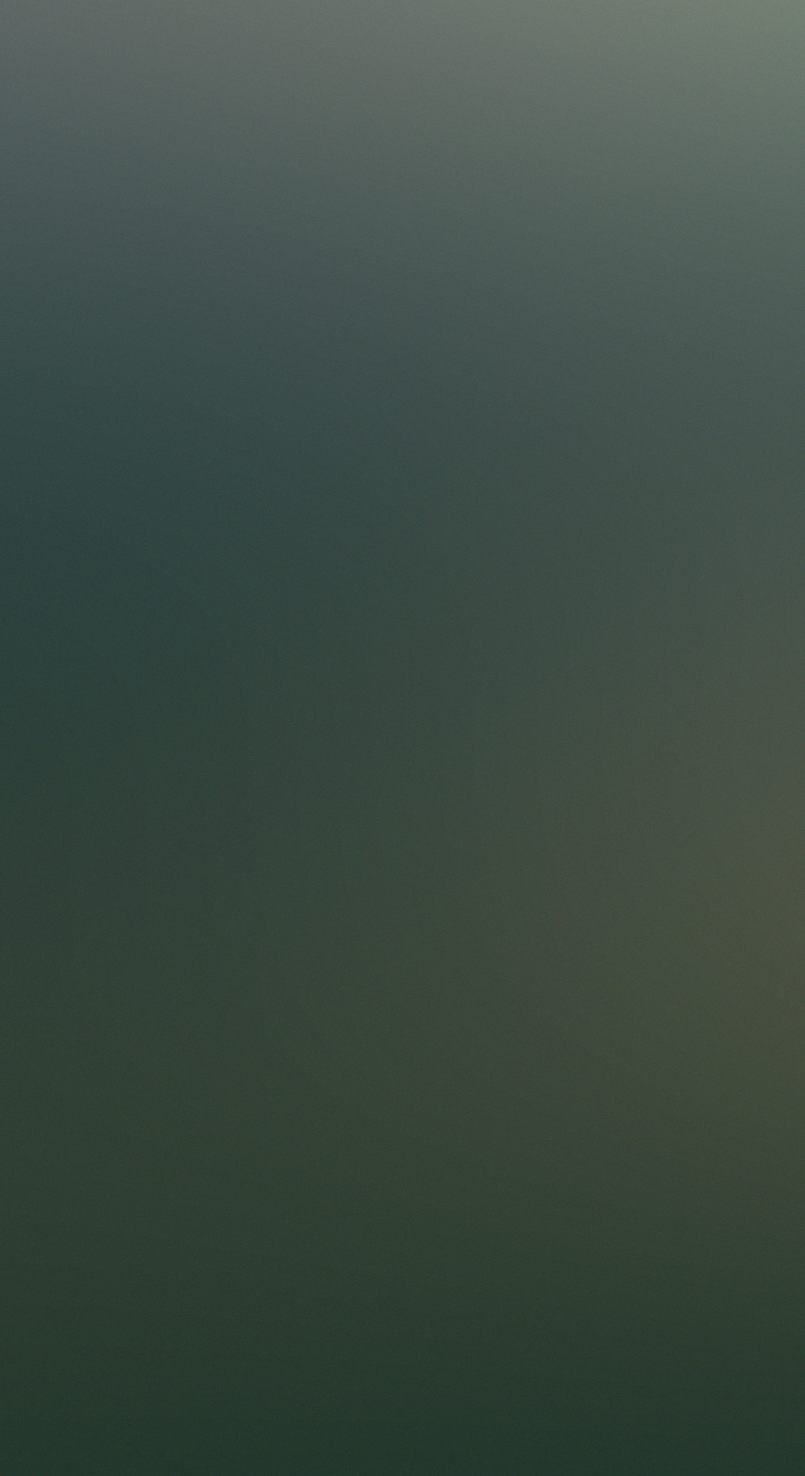
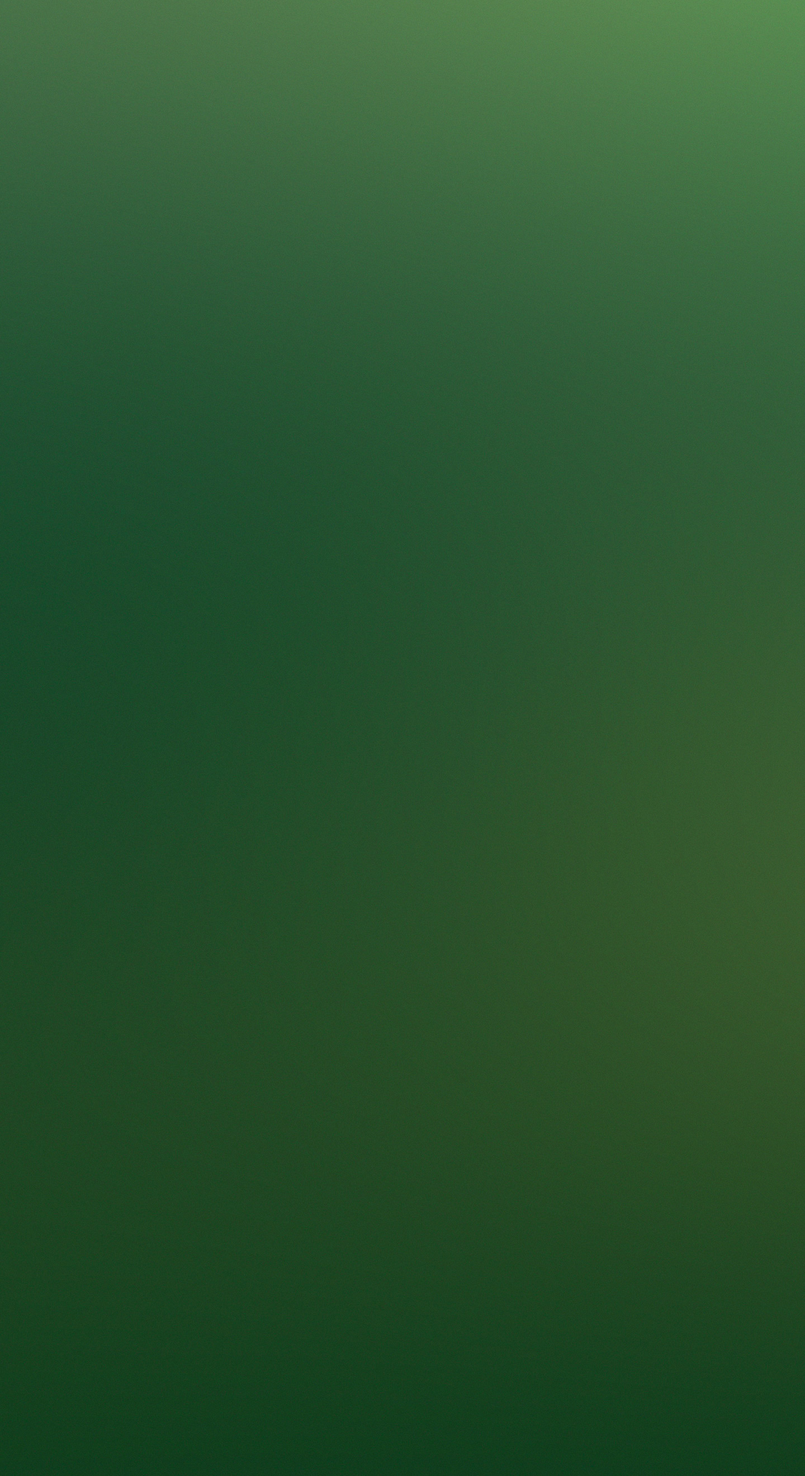
css mods

Changed region(s): [[0.0, 0.0, 1.0, 0.3106]]

diff --git a/index.html b/index.html
@@ -18,9 +18,9 @@
 		<!-- Header -->
 		<section id="header">
 			<header>
-				<h1>Sara Soueidan
+				<h1>DSI Spotlight 2020
 				</h1>
-				<p>Data Science Spotlight 2020</p>
+				<p>By Sara Soueidan. 2020.</p>
 			</header>
 			<footer>
 				<a href="#banner" style="margin-bottom:-2rem;" class="button style3 scrolly">
@@ -107,7 +107,7 @@
 				<div class="col-4 col-12-mobile">		    
 					<a href="ht.html" data-poptrox="iframe" class="image fit">
 					<img src="images/thumbs/01.jpg"  title="Healthcare"/>
-					<h2 class="text-centered">Healthcare</h2>						
+					<h2 class="text-centered">Health Tech</h2>						
 					</a>
 				</div>
 				<!-- DS -->
@@ -136,7 +136,7 @@
 		<!-- Project - Classical Music -->
 		<article id="project1" class="container box style1 right">
 				<a href="pdfs/capstone.pdf" class="image fit">
-				<img src="images/pic01.jpg" alt="">
+				<img src="images/pic02.jpg" alt="">
 				<h2 class="text-centered">Classical Music Classifier</h2>
 			</a>
 			<div class="inner">
@@ -152,7 +152,7 @@
 		<!-- Project - Power Outage Tracker -->
 		<article id="project2" class="container box style1 left">
 			<a href="pdfs/twitter.pdf" class="image fit">
-				<img src="images/pic01.jpg" alt="">
+				<img src="images/pic02.jpg" alt="">
 				<h2 class="text-centered">Power Outage Tracker</h2>
 			</a>
 			<div class="inner">
@@ -167,7 +167,7 @@
 		<!-- Project - Reddit NLP -->
 		<article id="projects3" class="container box style1 right">
 			<a href="pdfs/reddit.pdf" class="image fit">
-				<img src="images/pic01.jpg" alt="">
+				<img src="images/pic02.jpg" alt="">
 				<h2 class="text-centered">Reddit Natural Language Processor</h2>
 			</a>
 			<div class="inner">
@@ -251,6 +251,7 @@
 				<a href="soueidan-resume-2020-long.pdf"class="button style3" download>resume</a>
 			</header>
 		</article>
+
 
 	<!--	 Generic 
 		
@@ -402,6 +403,7 @@
 		
 
 		<section id="footer">
+		
 			<ul class="icons">
 				<li><a href="https://www.linkedin.com/in/sara-soueidan/" class="icon brands fa-linkedin-in"><span class="label">LinkedIn</span></a></li>
 				<li><a href="https://github.com/saraso2014" class="icon brands fa-github"><span class="label">Github</span></a></li>

diff --git a/assets/css/main.css b/assets/css/main.css
@@ -86,7 +86,7 @@ input, select, textarea {
 	}
 
 	body {
-		background-color: #3a3939;
+		background-color: rgb(52,99,64);
 		background-image: url("images/overlay.png"), url("../../images/bg.jpg");
 		background-repeat: repeat, no-repeat;
 		background-size: auto, cover;
@@ -159,7 +159,6 @@ input, select, textarea {
 		font-size: 1.25em;
 		letter-spacing: 8px;
 	}
-
 
 	h3 {
 		font-size: 1.5em;
@@ -1800,7 +1799,7 @@ input, select, textarea {
 		input[type="reset"].style2,
 		button.style2,
 		.button.style2 {
-			color: #3a3939;
+			color: #3B715A;
 			background: #fff;
 			box-shadow: inset 0 0 0 1px #fff;
 		}
@@ -2223,14 +2222,15 @@ input, select, textarea {
 		color: #fff;
 		text-shadow: 0 0 0.5px rgba(255, 255, 255, 0.25);
 		text-align: center;
-		background: #35b88f url("images/banner.svg") bottom center no-repeat;
+		background: #3B715A url("images/banner.svg") bottom center no-repeat;
 		padding: 5em 0 5em 0;
 		margin: 0;
 		background-size: 125% auto;
 	}
 
 		#banner .button {
-			color: #35b882;
+			/* old color color: #35b882; */
+			color: #3B715A;
 			text-shadow: 0 0 0.5px rgba(53, 184, 130, 0.25);
 		}
 
@@ -2321,9 +2321,8 @@ iframe {
 		box-sizing: content-box;
 		padding:3rem;
 		text-align:center;
-		color:clear;
-		background-color:black;
-		
+		background: url("../../images/bg.jpg");
+		border: solid #fff 0.5px;
 	}
 
 		.poptrox-popup .loader {
@@ -2338,12 +2337,10 @@ iframe {
 
 		.poptrox-popup .caption {
 			position: absolute;
-			bottom: 3rem;
 			left: 0;
 			font-size: 0;
 			background: white;
 			width: 0%;
-			height: 3em;
 			line-height: 0em;
 			text-align: left;
 			cursor: default;
@@ -2372,7 +2369,6 @@ iframe {
 				position: absolute;
 				width: 96px;
 				height: 64px;
-				background: url("images/poptrox-nav.svg");
 				top: calc(50% - 1.5em);
 				margin: -32px 0 0 0;
 			}

diff --git a/ht.html b/ht.html
@@ -11,7 +11,7 @@
     <body class="is-preload">   
     <article class="container box style4">
         <header>
-            <h2 class="popup-header">Healthcare</h2>
+            <h2 class="popup-header">Health Tech</h2>
             <h6><strong>Health Information Management</strong></h6>
             <h6><strong>Electronic Medical Records</strong></h6>
             <h6><strong>GDPR Privacy Standards</strong></h6>
